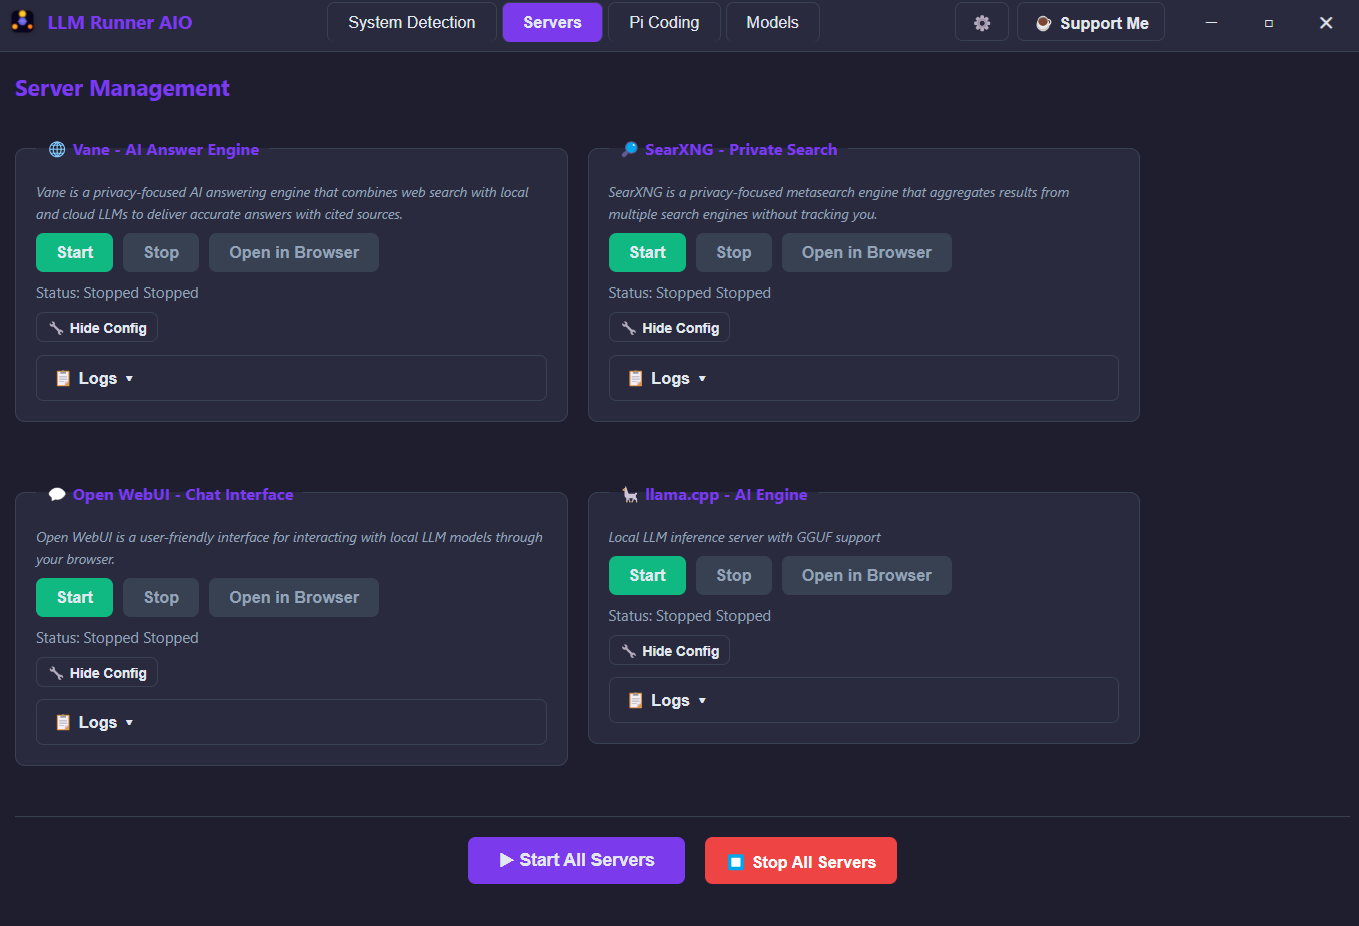
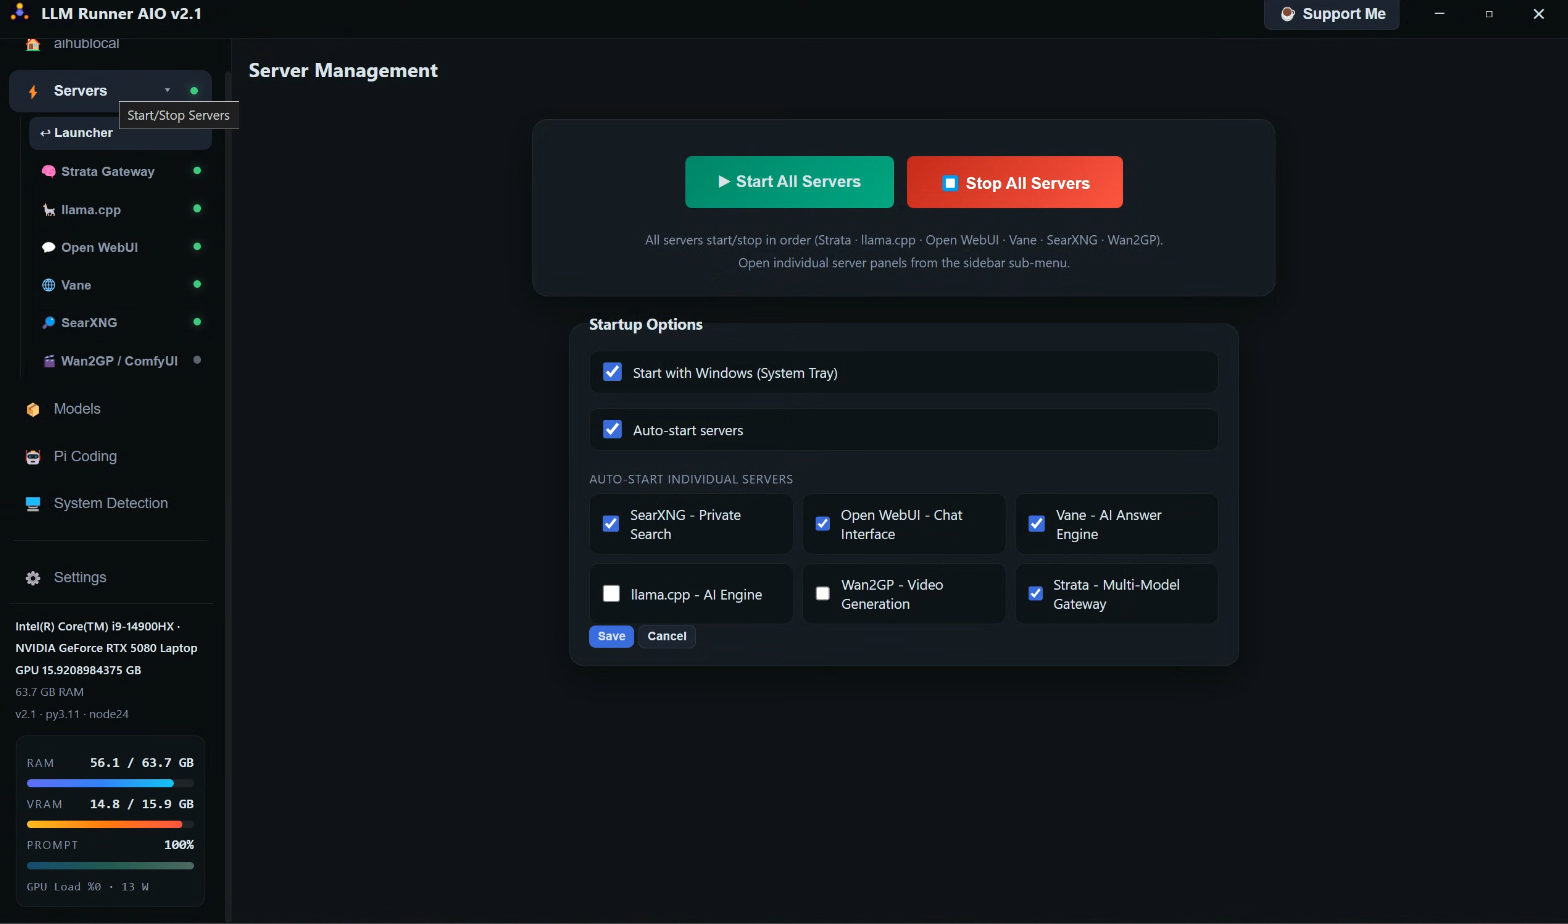
feat: new v2.1 app screenshot (Server Management) + size labels 2.28 GB

diff --git a/src/app/llm-runner-aio/page.tsx b/src/app/llm-runner-aio/page.tsx
@@ -16,7 +16,7 @@ export default function LLMRunnerAIO() {
   const appVersion = appVersionMatch ? appVersionMatch[1] : "";
   
   const features = [
-    { icon: Package, title: "No Manual Installation Required", desc: "A single 2.26 GB .exe file — double-click and wait. All dependencies install automatically within a local virtual environment (venv)." },
+    { icon: Package, title: "No Manual Installation Required", desc: "A single 2.28 GB .exe file — double-click and wait. All dependencies install automatically within a local virtual environment (venv)." },
     { icon: Cpu, title: "Automatic Hardware Detection", desc: "Detects your GPU/VRAM and applies the matching hardware profile (VRAM options: 4, 6, 8, 12, 16, 24, 32 GB)." },
     { icon: Download, title: "Smart Model Downloader", desc: "Select your auto-detection profile and click Model Download — only models that fit your VRAM (including any speculative draft models defined in the preset) are downloaded and llama.cpp is configured accordingly." },
     { icon: Settings, title: "GUI Model Manager", desc: "Add, edit, or remove models straight from the System tab. Preset INIs are rewritten safely (comments and order preserved), main/MMProj/draft URLs stay in sync in model_urls.json, with one-click URL health checks per model or for all at once." },
@@ -50,7 +50,7 @@ export default function LLMRunnerAIO() {
   ];
 
   const steps = [
-    { num: "1", title: "Download", desc: "Download LLM-Runner-AIO.exe (2.26 GB) from Hugging Face" },
+    { num: "1", title: "Download", desc: "Download LLM-Runner-AIO.exe (2.28 GB) from Hugging Face" },
     { num: "2", title: "Run", desc: ".exe: double-click to execute. .RAR: extract, then run run.bat first — it installs dependencies, configures Pi Coding and creates a desktop shortcut" },
     { num: "3", title: "Detect & Download Models", desc: "Click System Detection, then Model Download — models are auto-configured for your VRAM" },
     { num: "4", title: "Start Servers", desc: "Launch all services and access at http://localhost:3000" },
@@ -87,7 +87,7 @@ export default function LLMRunnerAIO() {
               rel="noopener noreferrer"
               className="inline-flex items-center gap-3 bg-indigo-600 dark:bg-indigo-600 text-white px-8 py-4 rounded-xl text-lg font-semibold hover:bg-indigo-700 dark:hover:bg-indigo-700 shadow-lg shadow-indigo-200 dark:shadow-none transition-all duration-200 hover:-translate-y-0.5">
               <Download className="h-5 w-5" />
-              Download LLM-Runner-AIO.exe (2.26 GB)
+              Download LLM-Runner-AIO.exe (2.28 GB)
             </a>
             <a
               href={rarDownload}
@@ -95,7 +95,7 @@ export default function LLMRunnerAIO() {
               rel="noopener noreferrer"
               className="inline-flex items-center gap-3 bg-white dark:bg-gray-800 text-indigo-600 dark:text-indigo-400 border-2 border-indigo-600 dark:border-indigo-500 px-6 py-3 rounded-xl text-base font-semibold hover:bg-indigo-50 dark:hover:bg-indigo-900/20 transition-all duration-200">
               <Download className="h-5 w-5" />
-              Download .RAR (2.26 GB)
+              Download .RAR (2.28 GB)
             </a>
           </div>
           
@@ -424,7 +424,7 @@ export default function LLMRunnerAIO() {
               rel="noopener noreferrer"
               className="inline-flex items-center gap-3 bg-indigo-600 dark:bg-indigo-600 text-white px-8 py-4 rounded-xl text-lg font-semibold hover:bg-indigo-700 dark:hover:bg-indigo-700 shadow-lg shadow-indigo-200 dark:shadow-none transition-all duration-200 hover:-translate-y-0.5">
               <Download className="h-5 w-5" />
-              Download .exe (2.26 GB)
+              Download .exe (2.28 GB)
             </a>
             <a
               href={rarDownload}
@@ -432,7 +432,7 @@ export default function LLMRunnerAIO() {
               rel="noopener noreferrer"
               className="inline-flex items-center gap-3 bg-white dark:bg-gray-800 text-indigo-600 dark:text-indigo-400 border-2 border-indigo-600 dark:border-indigo-500 px-6 py-3 rounded-xl text-base font-semibold hover:bg-indigo-50 dark:hover:bg-indigo-900/20 transition-all duration-200">
               <Download className="h-5 w-5" />
-              Download .RAR (2.26 GB)
+              Download .RAR (2.28 GB)
             </a>
           </div>
         </section>
